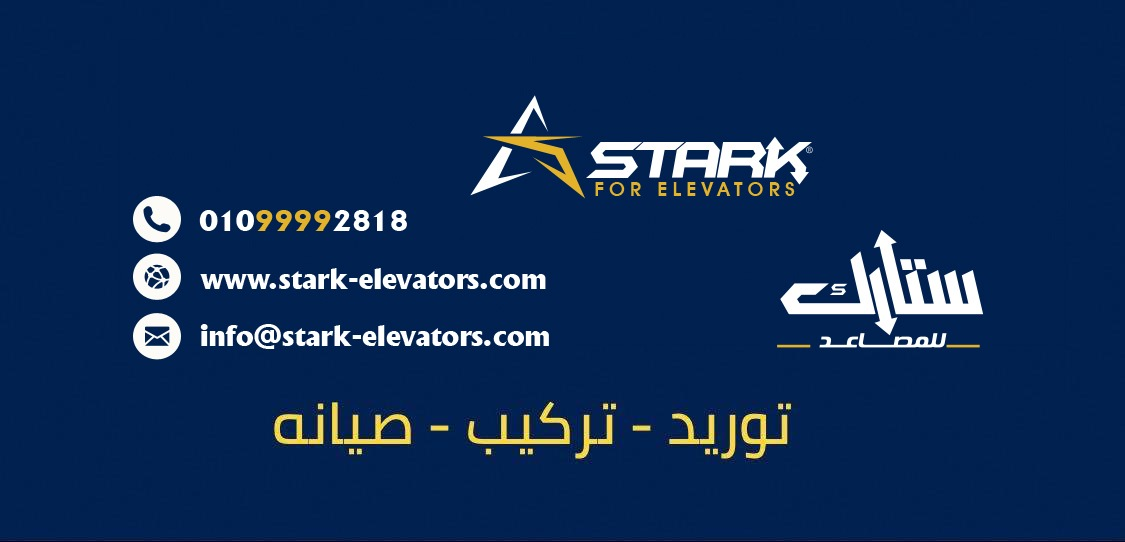
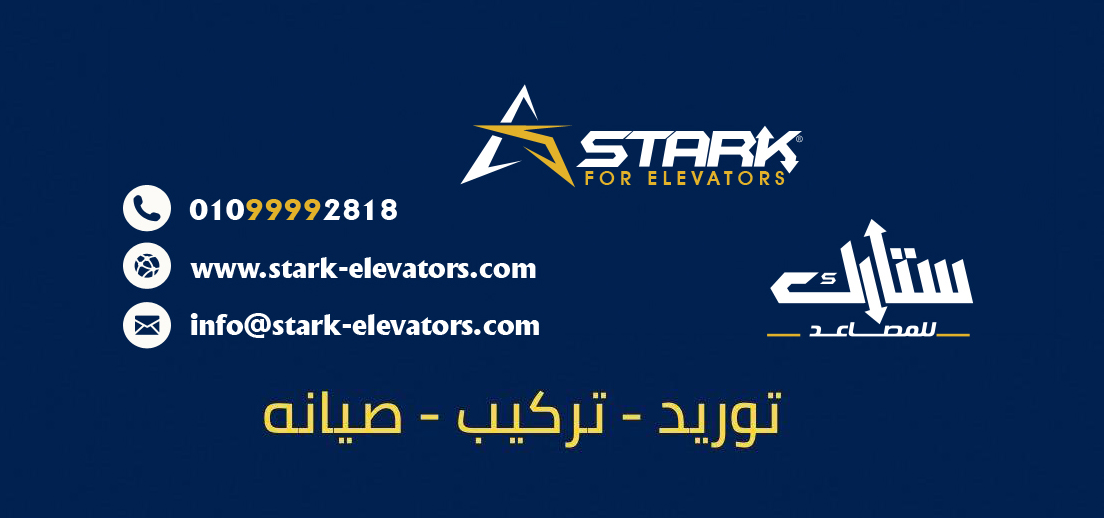
fix

diff --git a/index.html b/index.html
@@ -21,6 +21,8 @@
       }
       img {
         width: 100%;
+        max-width: 550px;
+        margin: 0 auto;
       }
     </style>
   </head>
